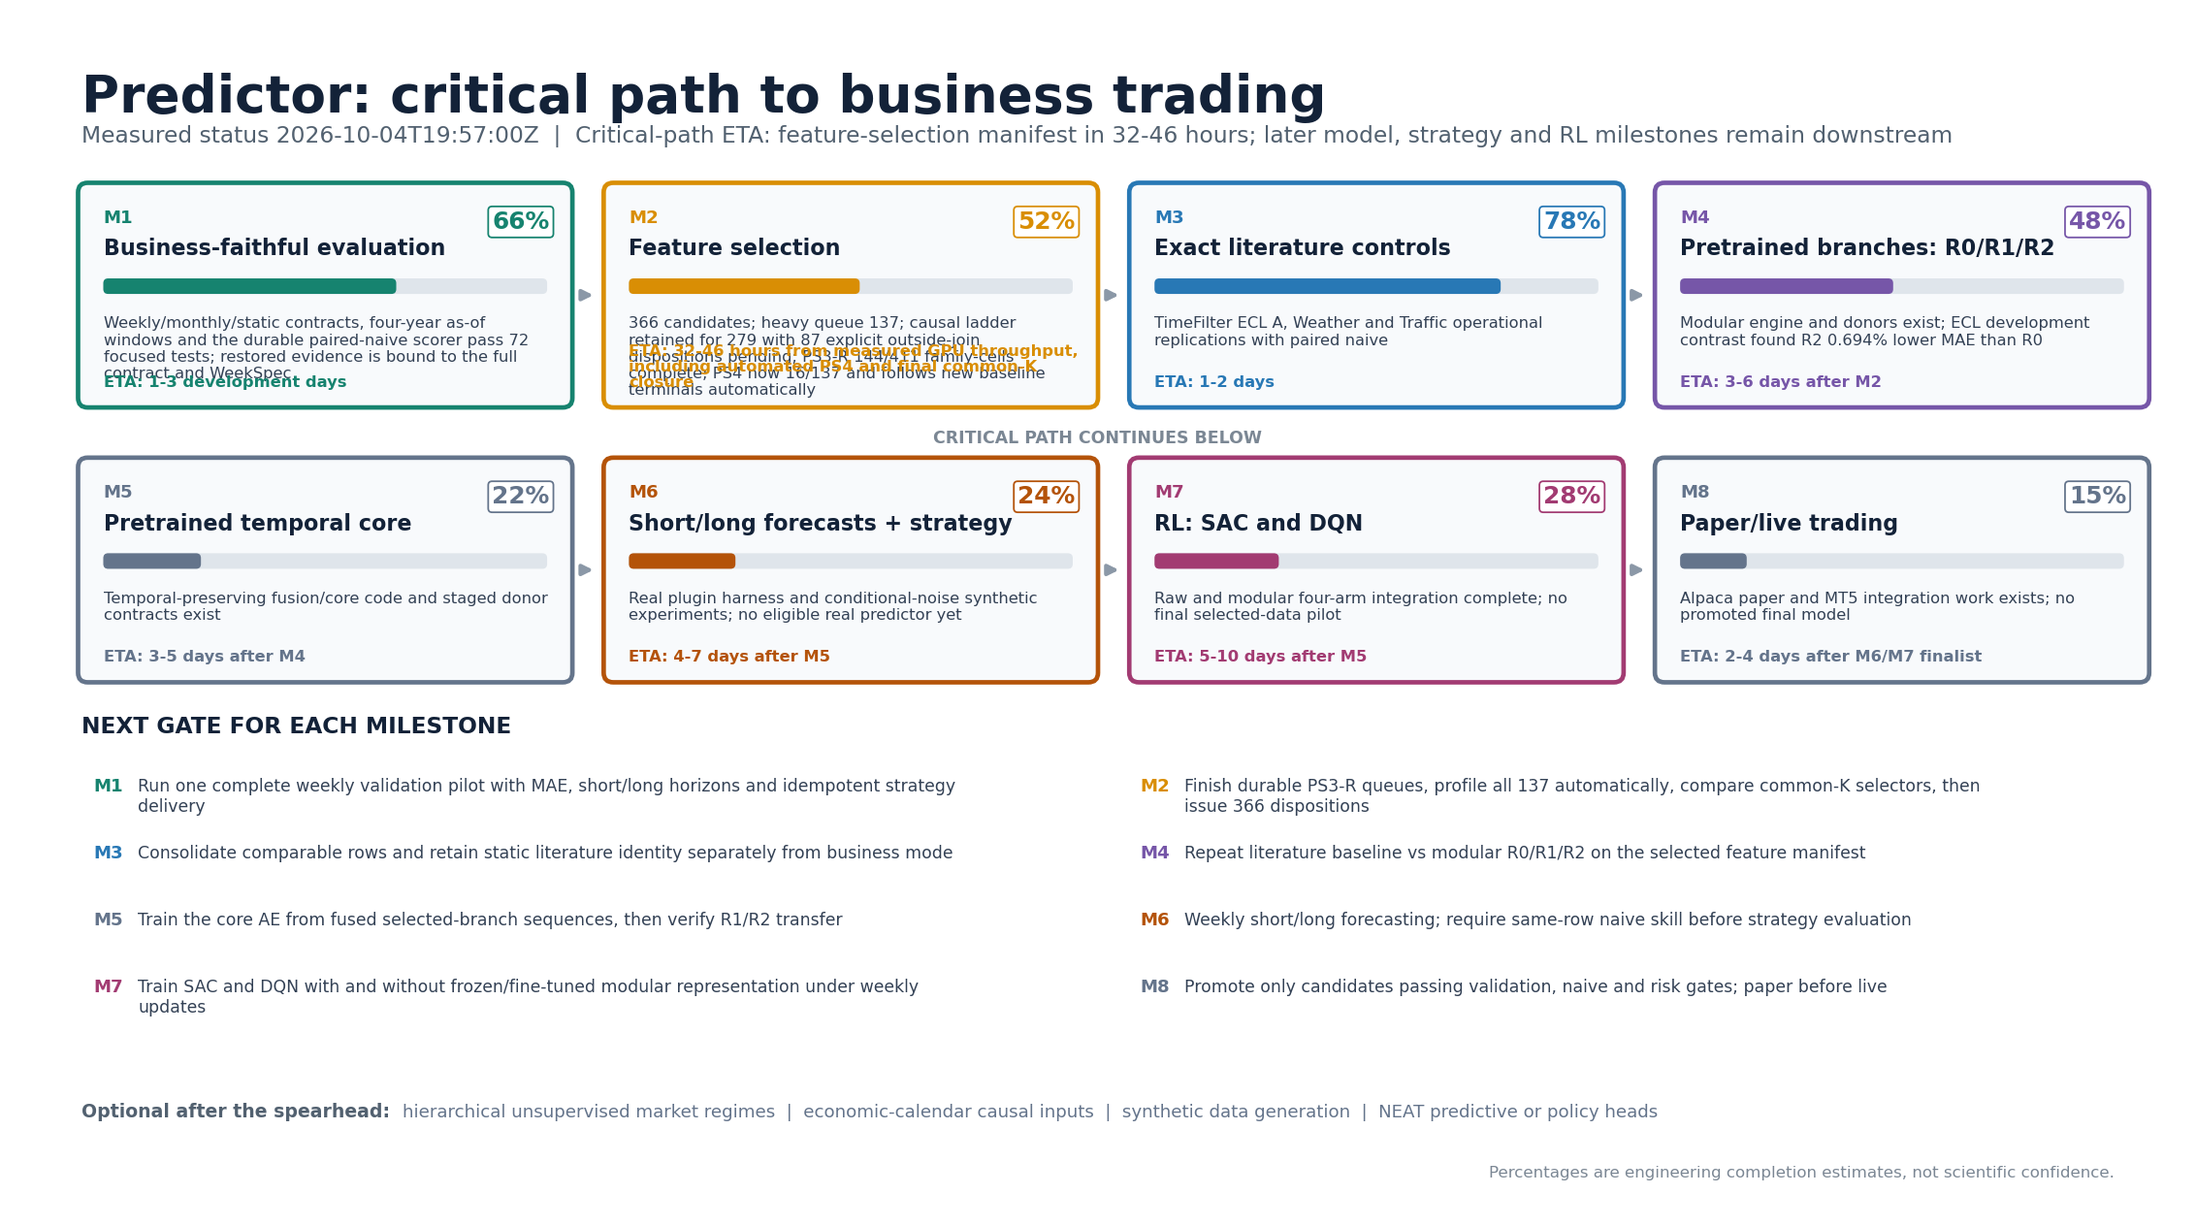
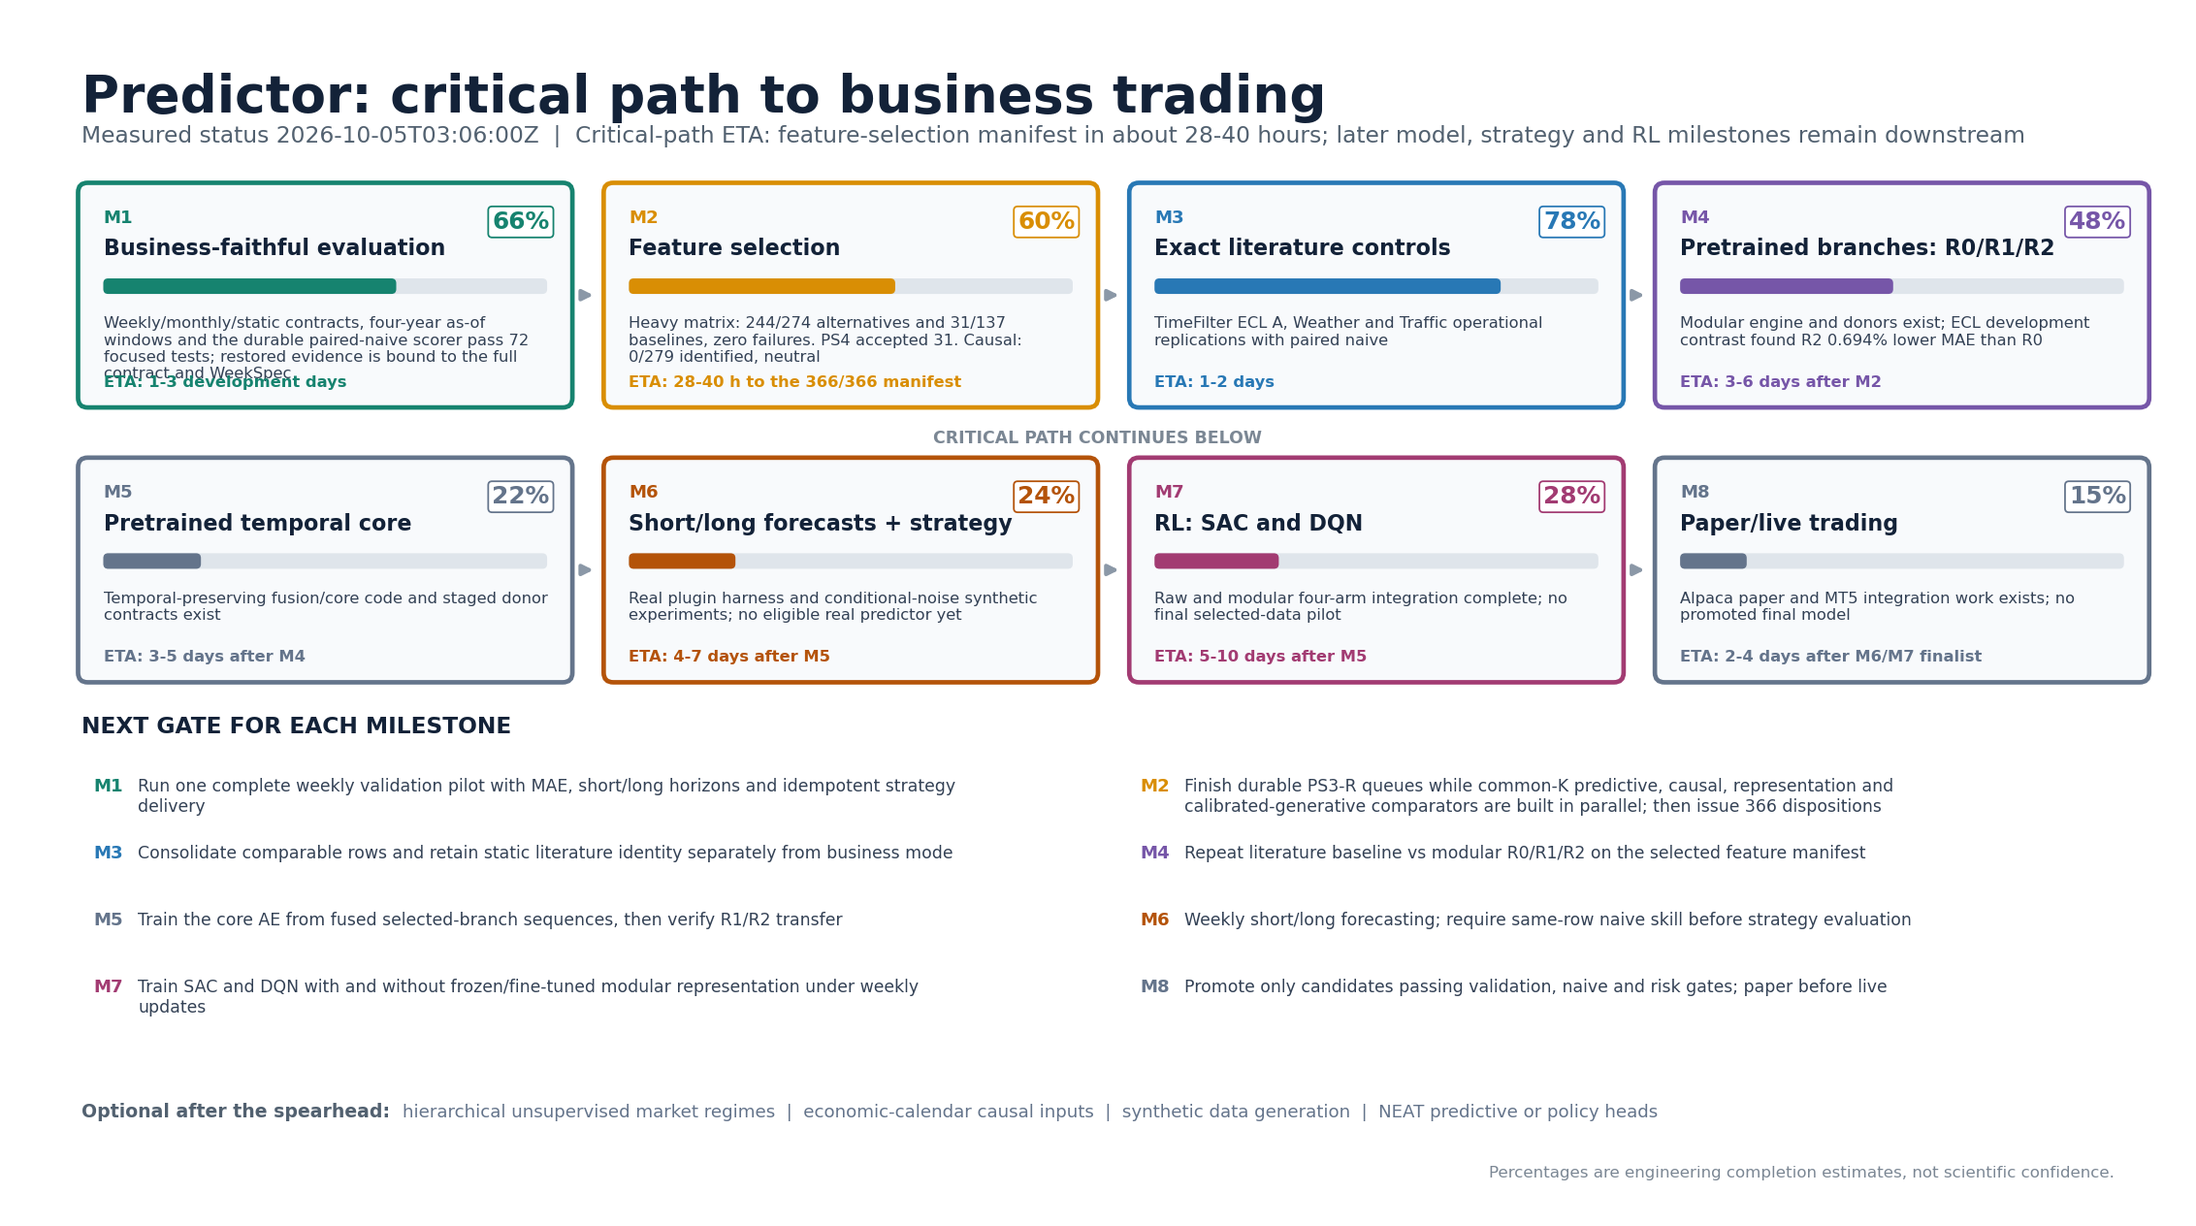
Order parallel feature selection closure

diff --git a/docs/handoffs/SATOSHI_FEATURE_SELECTION_CLOSURE_2026_10_05.md b/docs/handoffs/SATOSHI_FEATURE_SELECTION_CLOSURE_2026_10_05.md
@@ -1,0 +1,194 @@
+# Satoshi: cierre prioritario de seleccion de caracteristicas
+
+Fecha: 2026-10-05. Autoridad: Maestro/Musashi. Esta orden sucede a
+`SATOSHI_CANONICAL_SELECTION_FIRST_EXECUTION_2026_10_03.md` sin invalidar sus
+contratos ni su evidencia. El objetivo unico es emitir cuanto antes un
+manifiesto de seleccion EURUSD defendible para desbloquear ARCH. No abras NEAT,
+H-CORE, calendario como entrada, estrategia ni RL antes de este cierre.
+
+## 1. Estado de partida comprobado
+
+Corte vivo: `2026-10-05T03:06Z`.
+
+| Carril | Estado | Ritmo / ETA local |
+|---|---:|---:|
+| alternativas PS3-R, RTX 5090 | 244/274, 0 fallos, una celda viva | mediana 195 s; 30 restantes: 1.6-2.1 h |
+| baseline PS3-R, RTX 4090 | 31/86, 0 fallos, una celda viva | mediana 1286 s; 55 restantes: 19.7-25.0 h |
+| baseline sucesora, RTX 5090 | 0/51, espera el final de alternativas | medir ETA al cerrar las primeras tres |
+| perfil PS4 incremental | 31 descubiertas, 31 aceptadas y perfiladas | follower activo, 0 pendientes |
+| denominador | 366 candidatas; 137 en matriz pesada | ninguna seleccion final emitida |
+
+Procesos observados: `yh.lqd.logret_5d/past_to_current_siamese` en la 5090 y
+`yh.slv.logret_1d/identity,random,ae,dae` en la 4090. No los detengas, no repitas
+sus celdas y no cambies su receta. Los servicios de sincronizacion, perfilado y
+estado estan activos en omega.
+
+## 2. Regla de orquestacion
+
+Despacha al menos seis agentes con worktrees y conjuntos de escritura
+disjuntos. El agente principal integra continuamente: no espera que terminen
+todos para revisar el primero. Hermes/OpenCode puede hacer inventarios, pruebas,
+tablas, adaptadores acotados y documentacion. Cada agente acusa rama, tip,
+archivos que escribira y primer entregable antes de trabajar.
+
+| Lane | Recurso | Entregable |
+|---|---|---|
+| FS-GPU | 5090 + 4090 | terminar PS3-R, transferir automaticamente al sucesor y luego robar trabajo restante sin duplicar |
+| FS-PRED | CPU | todos los selectores predictivos/common-K sobre folds TRAIN identicos |
+| FS-CAUSAL | CPU | selector causal auditable y escalera de tres peldaños, con abstencion honesta |
+| FS-REP | CPU mientras corren GPU | decision raw/random/AE/DAE/MTAE/P2C por candidata y coste |
+| FS-GEN | CPU o GPU que quepa, no bloqueante | knockoff/generador condicionado como control calibrado |
+| FS-CLOSE | CPU | refits emparejados, estabilidad, manifiesto 366/366 y grafico de progreso |
+
+La 5070 Ti comparte 14 GiB de RAM de host con la 5090: no fuerces concurrencia
+si la admision no conserva la receta exacta. Omega no recibe el modelo pesado de
+14-20 GiB. CPU o GPU ociosa debe tomar una tarea que quepa; nunca se inventa una
+replica ni se encoge un modelo para aparentar ocupacion.
+
+Semilla por defecto: una, retenida en cada recibo. Maximo tres semillas solo en
+el desempate final de un metodo estocastico o para una comparacion publicada que
+lo exija. No repitas una celda terminal valida.
+
+## 3. FS-GPU: terminar extractibilidad sin espera manual
+
+1. Conserva los runners actuales y sus claims exclusivos.
+2. Al cerrar las 30 alternativas, la 5090 inicia automaticamente las 51
+   baselines de lotes 001/003 ya declaradas.
+3. Despues de esas 51, la 5090 toma, en frontera de celda, baselines todavia
+   pendientes del lote 002. Debe acuñar un claim atomico compartido con Dragon;
+   Dragon omite una celda reclamada o terminal. No mates una celda de Dragon.
+4. El follower PS4 consume cada terminal autenticada. La matriz de cierre exige
+   por candidata pesada: raw/identity, random, AE, DAE, masked temporal AE y
+   past-to-current, o `NOT_APPLICABLE`/`FAILED` con razon y recibo.
+5. Publica ETA de cada cola desde duraciones observadas: mediana y p90, numero de
+   trabajadores y hora absoluta. Un waiter no cuenta como trabajo GPU.
+
+## 4. FS-PRED: comparadores modernos bajo un solo contrato
+
+Antes de implementar, congela pruebas de poblacion, folds, targets, horizonte,
+K, semilla, ausencia de VALIDATION/TEST y rechazo por identidad. Reutiliza
+`feature_selection_campaign.py`; no crees otro orquestador general.
+
+Ejecuta sobre las 366 admisibles y los mismos folds TRAIN:
+
+1. `ALL_ADMISSIBLE`, `RANDOM_K`, Spearman, MI/JMI/CMIM/mRMR y redundancia.
+2. Elastic Net/group penalty con estabilidad entre folds.
+3. ExtraTrees con permutacion temporal por bloques y **refit** al retirar.
+4. seleccion marginal secuencial bajo presupuesto y gate de grupos temporal;
+5. ChronoEpilogi como comparador prioritario de subconjuntos predictivos
+   alternativos. Usa implementacion oficial compatible si licencia, pin y API
+   son verificables; de lo contrario implementa un adaptador fiel y marca el
+   alcance que no se pudo reproducir. No lo llames causal.
+
+Primario `K=24`; sensibilidad sellada `K={8,16,24,32,48}`. Toda familia entrega
+ranking completo y conjunto K, incluso si falla una sensibilidad. Mismo modelo,
+inicializacion, updates, filas, target y naive para cada refit.
+
+## 5. FS-CAUSAL: evidencia, no decoracion
+
+No reutilices las 1,076 estimaciones historicas como identificacion. El estado
+actual es 0/279 identificadas bajo las compuertas reparadas y esto es neutral,
+no rechazo. Integra tres clases de evidencia:
+
+1. **Peldaño 1, asociacion:** dependencia condicional lagged, placebos,
+   negativos, ganancia OOF y correccion BH por familia de hipotesis.
+2. **Peldaño 2, intervencion historica soportada:** episodios `A=a` y controles
+   `A=a'` recuperados de TRAIN, misma prehistoria/regimen/calendario, overlap y
+   balance; matching/propensity y DR o g-computation. Reporta ATT/ATE/CATE solo
+   dentro del soporte observado.
+3. **Peldaño 3, contrafactual de episodio:** SCM temporal ajustado en TRAIN,
+   abduccion del ruido factual, cambio exclusivo de A a una alternativa
+   historicamente soportada, propagacion y reconstruccion factual; placebos y
+   sensibilidad. Nunca afirmes que el outcome individual fue observado.
+
+Como comparadores de descubrimiento/cribado, evalua SyPI cuando sus restricciones
+de grafo sean defendibles y un metodo consciente de estacionariedad/retardos
+(PCMCI+ o minimal separating sets). ARROW puede evaluarse como acelerador de un
+metodo base, no como evidencia adicional. Cada metodo declara supuestos,
+condicionamiento, max lag, CI test, multiplicidad, soporte y razon de abstencion.
+
+La salida por feature es `SUPPORTED`, `CONTRADICTED` o `NOT_IDENTIFIED`, separada
+por target/horizonte/peldano. Solo `CONTRADICTED` robusto puede pesar contra una
+feature; `NOT_IDENTIFIED` no elimina.
+
+## 6. FS-REP: extractibilidad como selector de representacion
+
+La extractibilidad decide **como representar** una candidata, no si merece vivir
+por si sola. Para cada feature pesada, compara en las mismas filas:
+
+- raw/identity;
+- random encoder;
+- AE y DAE;
+- masked temporal AE;
+- past-to-current/siames.
+
+Mide reconstruccion normalizada, ACF/espectro/extremos/DTW cuando aplique,
+estabilidad, dimension efectiva, probe hacia targets corto/largo/barrera,
+ganancia incremental con refit y coste. Resultado: `RAW`, familia entrenada o
+`NO_TRAINED_ADVANTAGE`. Reconstruccion pobre es diagnostico; utilidad downstream
+manda. Reconstruccion buena sin utilidad no selecciona.
+
+## 7. FS-GEN: generacion/knockoffs, acotado y fail-closed
+
+No selecciones una feature porque un VAE/GAN la imita. Implementa una rama
+secundaria que no retrase el manifiesto principal:
+
+1. generador condicionado solo con informacion disponible: calendario conocido,
+   mascara/delta y pasado; target futuro prohibido;
+2. validacion de fidelidad temporal, colas, espectro, dependencia cruzada,
+   cobertura por regimen y prefix invariance;
+3. si y solo si pasa diagnosticos de intercambio/condicionalidad, ejecuta
+   Model-X multi-knockoffs o group knockoffs con FDR declarado;
+4. si no pasa, emite `NOT_CALIBRATED` y usa el generador solo para stress test,
+   negativos y futura ampliacion de entrenamiento.
+
+El resultado generativo es una columna de evidencia y estabilidad. No sustituye
+utilidad externa, causalidad ni refit.
+
+## 8. FS-CLOSE: decision final y artefactos obligatorios
+
+Compara como minimo, a K comun:
+
+1. ALL_ADMISSIBLE;
+2. mejor selector predictivo/redundancia;
+3. anterior + evidencia causal;
+4. anterior + representacion elegida por extractibilidad;
+5. knockoff/generativo, solo si quedo calibrado.
+
+La decision usa utilidad externa emparejada y parsimonia: MAE y MSE por
+horizonte, naive de las mismas filas, skill, estabilidad/Jaccard por fold,
+coste, latencia y memoria. Ningun resultado va a estrategia si no supera
+estrictamente su naive pareado. VALIDATION se usa para elegir al final; TEST
+permanece sin leer hasta congelar metodo y manifiesto.
+
+Entrega atomica:
+
+- `feature_dispositions.csv`: exactamente 366 filas y una disposicion por fila;
+- `representation_dispositions.csv`: las 137 pesadas y todos sus controles;
+- `selector_sets.json`: metodos, K, orden, folds, targets, semillas y digests;
+- `paired_refit_metrics.parquet`: poblacion y naive explicitos;
+- `causal_evidence.jsonl`: tres peldaños o abstencion por feature;
+- `FINAL_SELECTION_MANIFEST.json`: conjunto primario y sensibilidades;
+- `STATUS.json` y `MASTER_MILESTONE_PROGRESS.png` generados desde evidencia.
+
+El cierre falla si falta una de las 366 disposiciones, si mezcla poblaciones, si
+un conjunto K no tiene ranking completo, si usa TEST, si confunde
+`NOT_IDENTIFIED` con rechazo o si una metrica carece de naive pareado.
+
+## 9. Reporte de Satoshi
+
+Publica un primer acuse tras despachar agentes y un retorno al completar cada
+hito, sin esperar el cierre total. Formato obligatorio:
+
+1. commit/ramas/worktrees y agentes realmente activos;
+2. tabla por host: proceso, celda, GPU/RAM, inicio y ETA;
+3. conteos PS3-R/PS4, selector, causal y manifiesto sobre sus denominadores;
+4. mediciones nuevas, separadas de software/test;
+5. semillas, filas, target, horizonte, modelo, naive, coste y digests;
+6. fallos/abstenciones con objeto faltante y siguiente accion ya despachada;
+7. progreso visual actualizado.
+
+No pidas autorizacion rutinaria ni dejes una GPU esperando una revision CPU. Un
+bloqueo de un metodo no detiene los otros. No marques seleccion completa hasta
+que el manifiesto 366/366 y los refits comunes sean verificables.
+

diff --git a/docs/tres_temas_entrevista/program_v3/CURRENT_EXECUTION.md b/docs/tres_temas_entrevista/program_v3/CURRENT_EXECUTION.md
@@ -1,6 +1,6 @@
 # Estado de ejecución vigente
 
-Observado: 2026-10-04 18:33 UTC. La autoridad `codex/workplan-consolidation-20261003@02434903` está integrada en esta rama. Este corte sustituye las observaciones anteriores; no modifica resultados históricos. Los `STATUS.json` anteriores son instantáneas, no el estado vivo.
+Observado: 2026-10-05 03:06 UTC. La autoridad `codex/workplan-consolidation-20261003@02434903` esta integrada en esta rama. La orden operativa vigente de cierre es `docs/handoffs/SATOSHI_FEATURE_SELECTION_CLOSURE_2026_10_05.md`. Este corte sustituye las observaciones anteriores; no modifica resultados historicos. Los `STATUS.json` anteriores son instantaneas, no el estado vivo.
 
 ## Secuencia vigente
 
@@ -21,9 +21,9 @@ No ejecutar NEAT ahora. NEAT es un cabezal tardío, después de selección, ARCH
 | Host/GPU | Corte observado | Trabajo / disponibilidad |
 |---|---|---|
 | Omega RTX 4070 Laptop | escritorio, sin job batch observado | Contratos y tests CPU pequeños solamente. |
-| Gamma RTX 5090 | activa, 19,498 MiB, 50 C | Continuación durable lane F; después de cerrar siete celdas en esta sesión ejecuta `fx.audusd.logret_24h` con `masked_temporal_ae`. |
+| Gamma RTX 5090 | activa, 19,520 MiB, 43 C | Alternativas PS3-R: 244/274 completas, 0 fallos; ejecuta `yh.lqd.logret_5d` con `past_to_current_siamese`. Luego toma 51 baselines declaradas y trabajo pendiente sin duplicar. |
 | Gamma RTX 5070 Ti Laptop | 0%, 14 MiB, 26 C | Ociosa. No concurre con la 5090 porque ambas comparten 14 GiB de RAM del host. |
-| Dragon RTX 4090 Laptop | activa, 14,430 MiB, 41 C | Continuación durable baseline; cerró `fred.credit.aaa.logret_1d` y ejecuta `fred.fx_indices.dtwexemegs.level`, una celda a 8,000 MiB. |
+| Dragon RTX 4090 Laptop | activa, 14,430 MiB, 40 C | Baseline PS3-R: 31/86 completas, 0 fallos; ejecuta `yh.slv.logret_1d`, una celda a 8,000 MiB. |
 
 La cola F no equivale a trabajo usando la 5070 Ti mientras E ocupa el slice. El driver E/F alterna al terminar una celda; no iniciar un duplicado ni forzar concurrencia.
 
@@ -36,7 +36,7 @@ La cola F no equivale a trabajo usando la 5070 Ti mientras E ocupa el slice. El 
 | Variantes de señal | PERFIL PS4 PARCIAL ACEPTADO | Diez salidas de cinco variantes causales tienen 50 unidades feature-fold y 1,050 métricas PS4 completas. Cuatro variantes globales/smoother siguen rechazadas por usar futuro. Ninguna queda seleccionada por perfilado. |
 | PS2 | PARCIAL | 366 admisibles: 279 pasaron a la shortlist de PS3-C; 87 quedaron con prioridad baja en las 14 celdas. Los conteos de tiers se solapan y no deben sumarse. La cola no expresa aún cómo reconsiderar esas 87; PS5 debe dar estado a cada una. |
 | PS3-C causal | FIX Y REVISIÓN PUBLICADOS | `causal-inference@48ae17c`; 45 pruebas focales pasan. Revisión read-only de los tres lotes guardada en `laneC/reanalysis_48ae17c/`: 279 candidatas, 1,076 filas históricas; 109 con BH local, 0 identificación aceptada, 0 confirmaciones no lineales. La suite general del proveedor deja 6 fallos de entorno (EconML y paquete no instalado en subproceso), 149 pasan y 27 skip. |
-| PS3-R extractibilidad | EN EJECUCIÓN EN DOS GPU | Dragon continua baseline. Gamma lane F cerro tres celdas past-to-current con hash de resultados igual al manifiesto (`tv.hilbert_amp`, `tv.kalman_dev`, `tv.stl_dev`) y continua secuencialmente. Son mediciones de extractor; reconstruccion/utilidad no equivalen a seleccion. |
+| PS3-R extractibilidad | EN EJECUCION EN DOS GPU | Alternativas 5090: 244/274; baseline Dragon: 31/86; baseline sucesora 5090: 0/51. No hay fallos terminales. PS4 ha aceptado y perfilado las 31 terminales baseline descubiertas. Son mediciones de extractor; reconstruccion/utilidad no equivalen a seleccion. |
 | Cobertura de features | RECONCILIACIÓN PARCIAL | `coverage_reconciliation/`: 366/366 filas, 279 en join PS3-C + 87 fuera, 137 en cola E, 142 fuera de E = 132 tier-3 + 10 calendario. Ocho pruebas pasan. Proveedores pagados y transformaciones siguen requiriendo su propia reconciliación; no se declara exhaustivo. |
 | PS4/PS5 manifiesto conjunto | LEDGER Y PRIMER PERFIL INCREMENTAL ACEPTADOS | El ledger autentica 14 terminales y su producto pliegue × familia × target × horizonte × metrica; conserva 279 `NOT_IDENTIFIED` + 87 `OUTSIDE_JOIN_PENDING` y 366 `NOT_READY`. El primer perfil incremental conserva 5 unidades VIX `MEASURED`, 1 `PENDING`, 105 metricas y procedencia PS3-R externa. No se libera seleccion ni estrategia. |
 | ARCH/E1/H-CORE/NEAT/RL | AÚN NO ELEGIBLES | Ejecutar en orden canónico solo tras manifiesto final; H-CORE después de E1 y NEAT al final sobre representación congelada. |
@@ -45,15 +45,15 @@ La cola F no equivale a trabajo usando la 5070 Ti mientras E ocupa el slice. El 
 
 ## Trabajo en paralelo y orden inmediato
 
-1. **Gamma:** no detener lane F; una celda en la 5090, sin concurrencia con la 5070 Ti mientras el host no admita ambas.
+1. **Gamma:** cerrar las 30 alternativas, encadenar las 51 baselines y despues ayudar a Dragon con claims exclusivos.
 2. **Dragon:** no detener la baseline PS3-R; una celda terminal por vez y sin duplicados.
-3. **CPU causal/ledger:** incorporar cada nuevo terminal autenticado sin convertir `NOT_IDENTIFIED` en rechazo.
-4. **CPU evidencia:** mantener baseline y familias alternativas separadas y verificar la poblacion cartesiana completa de cada terminal.
-5. **CPU PS4:** perfilar incrementalmente cada feature terminal autentica sin target/test, sin esperar las 366.
-6. **CPU negocio:** ejecutar el primer piloto semanal completo con el scorer aceptado; validation y test conservan recorridos separados.
+3. **CPU selectores:** ejecutar common-K predictivo/redundancia, ChronoEpilogi y controles sobre folds TRAIN identicos.
+4. **CPU causal:** completar la escalera causal con abstencion honesta y comparadores lagged; `NOT_IDENTIFIED` permanece neutral.
+5. **CPU evidencia/PS4:** ingerir cada terminal y decidir representacion raw/random/trained sin confundir reconstruccion con seleccion.
+6. **CPU cierre:** preparar refits emparejados, manifiesto 366/366 y naive de las mismas filas. El piloto semanal sigue independiente, sin retrasar seleccion.
 
 ## Resultado/ETA
 
-Hay un piloto predictivo PS5 de desarrollo, no exactitud financiera ni feature seleccionada: su mejor brazo no supera al naive pareado. La reconciliación reduce incertidumbre de cobertura, pero no decide selección. En esta sesión la 5090 cerró celdas alternativas en 3-4 minutos y la primera baseline nueva de Dragon tomó 15,4 minutos; esos ritmos sirven para las colas actuales, no constituyen todavía una ETA del manifiesto PS5 completo.
+Hay un piloto predictivo PS5 de desarrollo, no exactitud financiera ni feature seleccionada: su mejor brazo no supera al naive pareado. La reconciliacion reduce incertidumbre de cobertura, pero no decide seleccion. Con las tasas autenticadas, las 30 alternativas restantes tienen ETA 1.6-2.1 h y las 55 baselines actuales de Dragon 19.7-25.0 h; la sucesora de 51 celdas medira su ETA tras tres terminales. El cierre common-K se construye en paralelo y no espera ociosamente esas colas.
 
 Progreso visual anterior: [PROGRESS_20261003T1634Z.png](../../audits/evidence/canonical_20261003/PROGRESS_20261003T1634Z.png). Revisión causal: [REPORT](../../audits/evidence/canonical_20261003/laneC/reanalysis_48ae17c/REPORT.md). Cobertura de features: [README](../../audits/evidence/canonical_20261003/coverage_reconciliation/README.md). Fuentes y transformaciones: [REPORT.json](../../audits/evidence/canonical_20261003/source_transform_coverage/REPORT.json).
